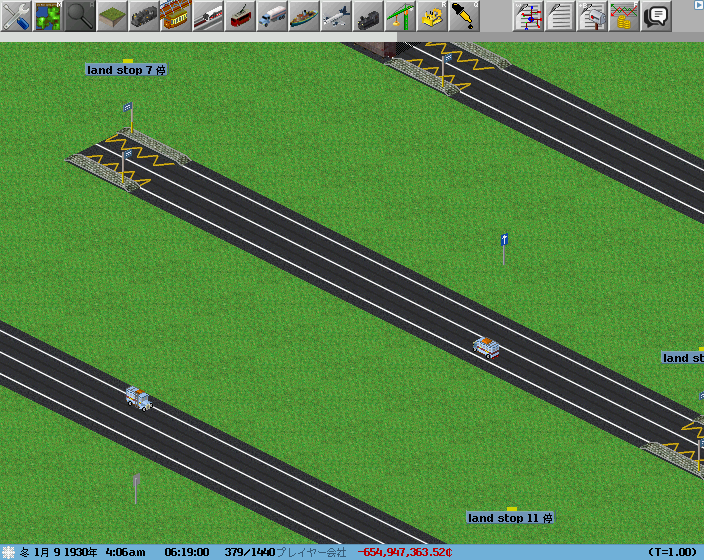
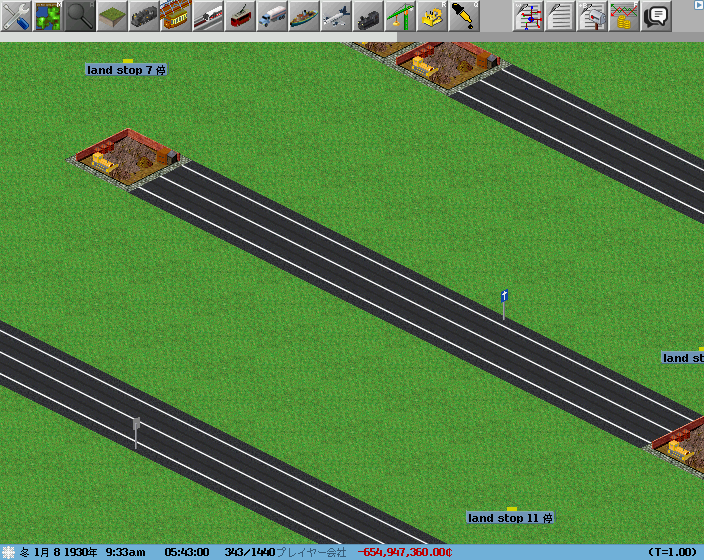
ami: draw the one-way sign plate for the passing cars instead of swapping image[n] (#200)
Swapping image[n] pushed the pole outside the road with drive-left, because the
engine's offset_left shift and the front/back order follow the slot. Revert the
dat swap; render the one_way sheet with the plate turned to the opposite
direction (pole corner unchanged) and make the icon from image[1].

diff --git a/addons/ami/blender/ami_dat.py b/addons/ami/blender/ami_dat.py
@@ -841,9 +841,6 @@ ROADSIGN_OFFSET_LEFT = 14  # 左側通行のときのずらし（本体の既定
 ROADSIGN_ICON_CELL = "0.4"  # sheetlib の roadsign.ROADSIGN_ICON_CELL と同じ
 ROADSIGN_CURSOR_CELL = "1.4"  # sheetlib の roadsign.ROADSIGN_CURSOR_CELL と同じ
 ROADSIGN_OFFSET = "-64,-32"  # 道路の way と同じ（sheetlib の ROAD_CY）
-# 一方通行（single_way=1）の標識は、本体が置いた向き n の絵（image[n]）が、反対の向きの車を通す（北向きの標識は南行きを通す。#162・#200 で撮って確かめた）。
-# シートのセル 0〜3 は北行き・南行き・西行き・東行きの車に向けた板なので、image[n] には反対の向きのセルを入れる（北↔南、西↔東）。ほかの標識は向きで通す車を変えない
-ROADSIGN_ONE_WAY_CELLS = (1, 0, 3, 2)
 
 
 def roadsign_dat_text(name, key):
@@ -863,8 +860,7 @@ def roadsign_dat_text(name, key):
     if key in ROADSIGN_EFFECT:
         out.append(ROADSIGN_EFFECT[key])
     out += [f"icon=> {name}.{ROADSIGN_ICON_CELL}", f"cursor={name}.{ROADSIGN_CURSOR_CELL}"]
-    cells = ROADSIGN_ONE_WAY_CELLS if key == "one_way" else range(4)
-    out += [f"image[{i}]={name}.0.{cell},{ROADSIGN_OFFSET}" for i, cell in enumerate(cells)]
+    out += [f"image[{i}]={name}.0.{i},{ROADSIGN_OFFSET}" for i in range(4)]
     return NL.join(out) + NL
 
 

diff --git a/addons/ami/blender/icons.py b/addons/ami/blender/icons.py
@@ -158,8 +158,8 @@ def picture_keys(d, kind, for_cursor):
         return [["backimage[0][0][0][0][0][0]", "frontimage[0][0][0][0][0][0]"]]
     if kind == "marking":  # 路面表示（#187）: MARK_PICTURE のセル
         return [[MARK_PICTURE[d["name"]]]]
-    if kind == "sign":  # 北行きの絵（画面の右の角。表が見える）
-        return [["image[0]"]]
+    if kind == "sign":  # 北行きの絵（画面の右の角。表が見える）。一方通行は板を反対の向きに向けた絵なので、表が見える image[1]（#200）
+        return [["image[1]" if d["name"].endswith("_one_way") else "image[0]"]]
     if kind in ("wall", "catenary"):
         # 近い斜めの分け合うタイル用（twin）は直線を持たないので、平行な 2 つの斜め（nw・se）を重ねる
         return [[f"back{k}", f"front{k}"] for k in ("image[ns]", "image[s]", "image[n]")] + \

diff --git a/tools/blender/sheetlib/roadsign.py b/tools/blender/sheetlib/roadsign.py
@@ -193,6 +193,10 @@ def roadsign_sheet(sheet, plate, work):
         ex, ey = _cell_xy((x + ax, y + ay, z))
         slope = (ey - cy) / (ex - cx)  # 板の横の向きの画面での傾き（東西 +0.5、南北 -0.5）
         shown = ROADSIGN_FACE_SHOWN[i]
+        if plate == "one_way":
+            # 一方通行は、本体が置いた向き n の絵（image[n]）が反対の向きの車を通す（#162・#200）。柱の角と奥・手前・左側通行のずらしは
+            # slot n のまま使い、板だけ反対の向きの車に向ける（表と裏が入れ替わる）
+            shown = not shown
         _stamp(im, face if shown else back, cx, cy, slope, None if shown else im[..., 3] > 0)
         save_rgba(path, im)
         cells[(0, i)] = path

diff --git a/addons/ami/README.md b/addons/ami/README.md
@@ -475,7 +475,7 @@ AMI として変えた点（2026-11-17。後半はユーザーの見た目の指
 | `ami_sign_min_50` | 最低速度（323 の 2。青い円に白い数字と下線） | 最低速度 50 km/h（`min_speed=50`）。それより遅い車は通れない |
 
 - 絵の置き方は本体が決める（`obj/roadsign.cc` の `calc_image`）。絵は 4 枚（`image[0]`〜`[3]` が北・南・西・東の向きの車に向けた標識）で、その向きの車から見て右の側の、タイルの角の近くに描く（右側通行の絵。左側通行の設定では本体が `offset_left`（既定 14px）だけずらし、奥と手前の描き分けも入れ替える）。両方向の標識は 2 枚が出て、画面に表が見えるのは北行き（右の角）と西行き（上の角）、裏が見えるのは南行き（左の角）と東行き（下の角）。位置は pak128 の標識（`pak128/infrastructure/road_signs/p128_sign_road_misc.png`）にそろえた
-- 一方通行の向き（#200、2026-11-23）: 本体が置いた向き n の絵（`image[n]`）は、反対の向きの車を通す（北向きの標識は南行き）。このため `ami_sign_one_way` の dat は、`image[0]`〜`[3]` にシートのセル 1・0・3・2 を入れる（`blender/ami_dat.py` の `ROADSIGN_ONE_WAY_CELLS`。シートのセル 0〜3 は北行き・南行き・西行き・東行きの車に向けた板）。直す前は、1 回置いた南北の道路で、北行きの車に向けた板（セル 0）が出て、通れるのは南行きだった。ほかの標識は向きで通す車が変わらないので入れ替えない。車で確かめた（`ingame/oneway_dir_check.nut`、OTRPv64_3・`flat_512_left.sve`。直した後も同じ結果）: 南北に 1 回置くと南行きの車だけが走り、北行きは車庫から出なかった。2 回置くと北行きだけが走った。東西に 1 回置くと西行きだけ、2 回置くと東行きだけが走った（`masked` は順に 4・1・8・2 で、記録と同じ）。撮った画面: `docs/roadsign200_before_ns.png`・`roadsign200_before_ew.png`（直す前）、`roadsign200_after_ns.png`・`roadsign200_after_ew.png`（直した後。拡大率 3。同じ位置）。道路は (20,24) から南北 (22,24)・(26,24)・(30,24)・(34,24) と東西 (20,38)・(20,42)・(20,46)・(20,50)。
+- 一方通行の向き（#200、2026-11-23）: 本体が置いた向き n の絵（`image[n]`）は、反対の向きの車を通す（北向きの標識は南行き）。柱の角・奥と手前の描き分け・左側通行のずらしは slot n で決まるので、dat の `image[n]` の入れ替えでは左側通行で柱が道路の外へ出る（最初の案で出た）。このため一方通行のシート（`roadsign.py` の `roadsign_sheet`）は、柱を slot n のまま（向き n の車の右の角）に立て、板だけ反対の向きの車に向けて描く（表と裏が入れ替わる。slot 0・2 は裏、1・3 は表が見える）。dat は変えない。アイコンとカーソルは表が見える `image[1]` から作る（`icons.py`）。直す前は、1 回置いた南北の道路で、北向きの車に向けた板が出て、通れるのは南行きだった。ほかの標識は向きで通す車が変わらないので変えていない（6 種を描き直して、一方通行の 1 枚だけが変わることを確かめた）。車で確かめた（`ingame/oneway_dir_check.nut`、OTRPv64_3・`flat_512_left.sve`。直す前後で同じ結果）: 南北に 1 回置くと南行きの車だけが走り、北行きは車庫から出なかった。2 回置くと北行きだけが走った。東西に 1 回置くと西行きだけ、2 回置くと東行きだけが走った（`masked` は順に 4・1・8・2）。撮った画面（拡大率 3）: `docs/roadsign200_before_ns.png`・`roadsign200_before_ew.png`（直す前）、`roadsign200_after_ns.png`・`roadsign200_after_ew.png`（直した後。左側通行。同じ位置で、柱の位置は変わらず板の向きだけが変わる）、`roadsign200_after_ew_right.png`（直した後の右側通行 `flat_512.sve`）。道路は (20,24) から南北 (22,24)・(26,24)・(30,24)・(34,24) と東西 (20,38)・(20,42)・(20,46)・(20,50)。
 - 柱は Blender で描き（光と影を道路とそろえる）、板は画面の点に 2D の絵を押す（`tools/blender/sheetlib/roadsign.py` の `roadsign_sheet`）。板は画面で 11px（一時停止は幅 13・一方通行は幅 7）で、数字・矢印は 1px 単位の絵。Blender の面に貼った模様では数字がつぶれた。裏は表と同じ形の灰色の板。板は道路の進行方向に向ける（表がその向きの車に正対する。2026-11-22、ユーザーの指定）。画面では、南北の道路の板が右へ 2px ごとに 1px 下がり、東西の道路の板が右へ 2px ごとに 1px 上がる。絵の列を 1 列ずつ縦にずらして押すので（せん断）、列の数は減らず数字の画素は残る。裏が見える板（南行き・東行き）では、柱の画素を板で消さない
 - 高さ: 柱の足元から板の上端まで 30px（128px 座標。上の角の絵で y68 から y38）。高架の高さ（pak128 で 32px。[hakozumi.md](../../docs/reference/hakozumi.md) の 4 章）より低い。pak128 の `Minimum80` は 33px
 - 雪の絵は無い（roadsign は季節の絵を持たない）。降雪の地面でも同じ絵（`docs/roadsign122_snow.png`）

diff --git a/docs/reference/cityscape.md b/docs/reference/cityscape.md
@@ -195,4 +195,4 @@ SIS は CC BY-NC-SA 4.0 なので、画像と dat は AMI に入れない（[ref
   - 2 車線の道路を 2 本並べた 4 車線で、西の道路に建てた標識は、柱や裏の円板が 4 車線の真ん中（2 本の道路の境）に立った。
   - 東西の道路の重なりは撮っていない。
 - 一方通行の標識を南北の道路に 1 回だけ建てると、北向きになり、北行きの車両が通れなかった（車庫から出なかった）。もう一度建てて南向きにすると通れた。景観に使うときも、車両の通る向きと標識の向きを合わせる。
-- 一方通行の標識の `image[n]` と通れる向き（2026-11-23、#162 の見本で撮り、`masked` を読んだ。左側通行）: 南北の道路に 1 回建てると `image[0]` が出て、通れるのは南行き（`get_dirs_masked` が 4）。2 回建てると `image[1]` が出て北行き（1）。東西の道路に 1 回建てると `image[3]` が出て西行き（8）、2 回建てると `image[2]` が出て東行き（2）。つまり向き n の絵は、反対の向きの車に効く（北向きの標識は南行きを通す）。進入側に何かを描くとき（停止線など）は、この対応で絵を選ぶ。既存の柱の一方通行の標識 `ami_sign_one_way` は、この対応で車と合うように dat の `image[n]` を入れ替えた（#200。2026-11-23、車を走らせて確かめた。AMI の README「道路標識の作り」）。
+- 一方通行の標識の `image[n]` と通れる向き（2026-11-23、#162 の見本で撮り、`masked` を読んだ。左側通行）: 南北の道路に 1 回建てると `image[0]` が出て、通れるのは南行き（`get_dirs_masked` が 4）。2 回建てると `image[1]` が出て北行き（1）。東西の道路に 1 回建てると `image[3]` が出て西行き（8）、2 回建てると `image[2]` が出て東行き（2）。つまり向き n の絵は、反対の向きの車に効く（北向きの標識は南行きを通す）。進入側に何かを描くとき（停止線など）は、この対応で絵を選ぶ。既存の柱の一方通行の標識 `ami_sign_one_way` は、この対応で車と合うように、シートの板を反対の向きに向けて描き直した（柱の角は変えない。dat の `image[n]` を入れ替えると左側通行で柱が道路の外へ出る。#200。2026-11-23、車を走らせて確かめた。AMI の README「道路標識の作り」）。
